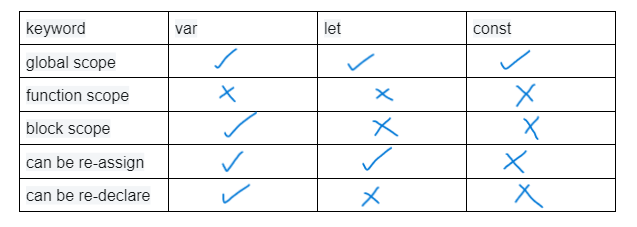
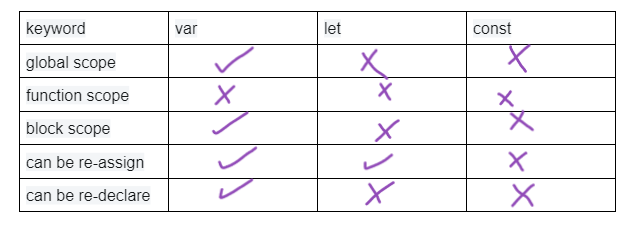
fixed

diff --git a/js-11-q2.js b/js-11-q2.js
@@ -3,8 +3,8 @@
 // | Keyword      | Global Scope | Block Scope | Function Scope | Can be re-assign | Can be re-declare |
 // |--------------|--------------|-------------|----------------|------------------|-------------------|
 // | var          |      Y        |      Y       |         N       |        Y          |        Y           |
-// | let          |      Y        |      N       |         N       |        Y          |         N          |
-// | const        |      Y        |      N      |         N       |         N         |         N          |
+// | let          |      N        |      N       |         N       |        Y          |         N          |
+// | const        |      N        |      N      |         N       |         N         |         N          |
 
 
 

diff --git a/index.html b/index.html
@@ -7,13 +7,13 @@
   </head>
 
   <body>
-    <!-- <script src="./js-11-q1.js"></script> -->
+    <script src="./js-11-q1.js"></script>
     <!-- <script src="./js-11-q2.js"></script> -->
     <!-- <script src="./js-11-q3.js"></script> -->
     <!-- <script src="./js-11-q4.js"></script> -->
     <!-- <script src="./js-11-q5.js"></script> -->
     <!-- <script src="./js-11-q6.js"></script> -->
-    <script src="./js-11-q7.js"></script>
+    <!-- <script src="./js-11-q7.js"></script> -->
     <!-- <script src="./js-11-q8.js"></script> -->
     <!-- <script src="./js-11-q9.js"></script> -->
   </body>

diff --git a/js-11-q1.js b/js-11-q1.js
@@ -14,8 +14,9 @@ function fnName() {
     }
     console.log(global);//works
     console.log(fnScope);//works
-    console.log(block);//works
+    console.log(block);//works(doesnt work with let and const)
 }
+fnName()
 console.log(global);//works
 console.log(fnscope);//error
 console.log(block);//error

diff --git a/js-11-q4.js b/js-11-q4.js
@@ -14,5 +14,5 @@ console.log(name);//output: 'Dina'
 
 
 //can be used before declaration
-console.log(sth);//output: undefined
+console.log(sth);//output: undefined(not error)
 var sth='lkwjlgjndsflkv'
